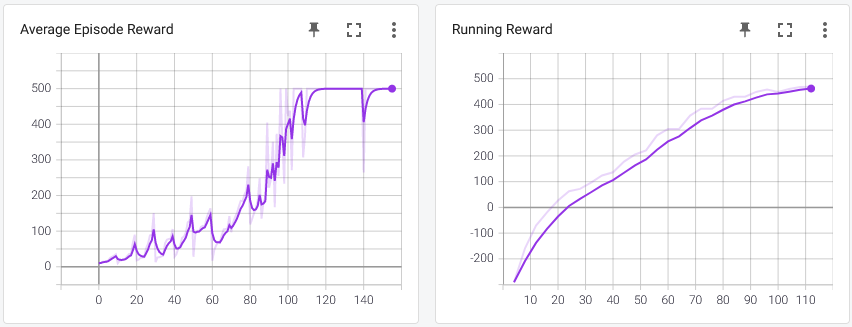
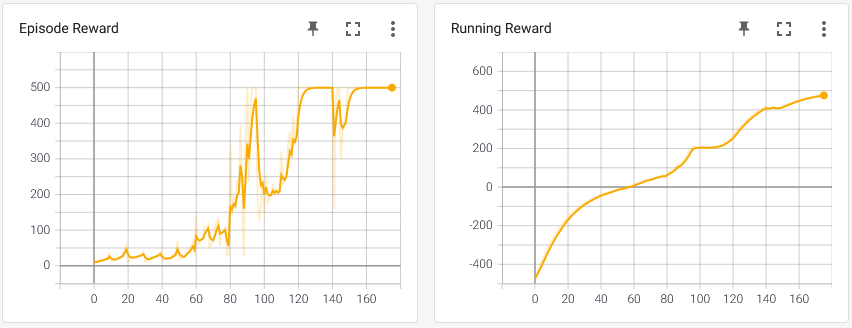
updated

diff --git a/scripts/ppo_chess/chess_env.py b/scripts/ppo_chess/chess_env.py
@@ -419,60 +419,49 @@ class ChessEnv():
   ##############################################################################
   def BoardEncode(self): 
     """Converts a board to numpy array representation (8,8,21) same as Alphazero with history_length = 1 (only one board)"""
-
-    array = np.zeros((8, 8, 14), dtype=int)
-
+    array = np.zeros((8, 8, 26), dtype=int)
     for square, piece in self.board.piece_map().items():
       rank, file = chess.square_rank(square), chess.square_file(square)
       piece_type, color = piece.piece_type, piece.color
-        
       # The first six planes encode the pieces of the active player, 
       # the following six those of the active player's opponent. Since
       # this class always stores boards oriented towards the white player,
       # White is considered to be the active player here.
-      offset = 0 if color == chess.WHITE else 6
-            
+      offset = 0 if color == chess.WHITE else 12
+      offset1 = 6 if color == chess.WHITE else 18        
       # Chess enumerates piece types beginning with one, which we have
       # to account for
       idx = piece_type - 1
-        
+      # We use now a for loop to save the squares attacked by the piece we just found
+      for i in list(self.board.attacks(square)):
+            array[chess.square_rank(i),chess.square_file(i),idx+offset1] = 1
       array[rank, file, idx + offset] = 1
-
       # Repetition counters
-    array[:, :, 12] = self.board.is_repetition(2)
-    array[:, :, 13] = self.board.is_repetition(3)
-
+    array[:, :, 24] = self.board.is_repetition(2)
+    array[:, :, 25] = self.board.is_repetition(3)
     #return array
-
     #def observation(self, board: chess.Board) -> np.array:
     #Converts chess.Board observations instance to numpy arrays.
     #self._history.push(board)
-
     #history = self._history.view(orientation=board.turn)
     history = array
     meta = np.zeros(
     shape=(8 ,8, 7),
     dtype=int
     )
-    
     # Active player color
     meta[:, :, 0] = int(self.board.turn)
-    
     # Total move count
     meta[:, :, 1] = self.board.fullmove_number
-
     # Active player castling rights
     meta[:, :, 2] = self.board.has_kingside_castling_rights(self.board.turn)
     meta[:, :, 3] = self.board.has_queenside_castling_rights(self.board.turn)
-    
     # Opponent player castling rights
     meta[:, :, 4] = self.board.has_kingside_castling_rights(not self.board.turn)
     meta[:, :, 5] = self.board.has_queenside_castling_rights(not self.board.turn)
-
     # No-progress counter
     meta[:, :, 6] = self.board.halfmove_clock
     observation = np.concatenate([history, meta], axis=-1)
-
     return np.transpose(observation, (2, 0, 1))
 
 

diff --git a/scripts/ppo_chess_mpi/chess_env.py b/scripts/ppo_chess_mpi/chess_env.py
@@ -452,18 +452,15 @@ class ChessEnv():
   ##############################################################################
   def BoardEncode(self): 
     """Converts a board to numpy array representation (8,8,21) same as Alphazero with history_length = 1 (only one board)"""
-
     array = np.zeros((8, 8, 26), dtype=int)
-
     for square, piece in self.board.piece_map().items():
       rank, file = chess.square_rank(square), chess.square_file(square)
       piece_type, color = piece.piece_type, piece.color
-        
       # The first six planes encode the pieces of the active player, 
       # the following six those of the active player's opponent. Since
       # this class always stores boards oriented towards the white player,
       # White is considered to be the active player here.
-      offset = 0 if color == chess.WHITE else 6
+      offset = 0 if color == chess.WHITE else 12
       offset1 = 6 if color == chess.WHITE else 18        
       # Chess enumerates piece types beginning with one, which we have
       # to account for
@@ -471,44 +468,33 @@ class ChessEnv():
       # We use now a for loop to save the squares attacked by the piece we just found
       for i in list(self.board.attacks(square)):
             array[chess.square_rank(i),chess.square_file(i),idx+offset1] = 1
-
       array[rank, file, idx + offset] = 1
-
       # Repetition counters
     array[:, :, 24] = self.board.is_repetition(2)
     array[:, :, 25] = self.board.is_repetition(3)
-
     #return array
-
     #def observation(self, board: chess.Board) -> np.array:
     #Converts chess.Board observations instance to numpy arrays.
     #self._history.push(board)
-
     #history = self._history.view(orientation=board.turn)
     history = array
     meta = np.zeros(
     shape=(8 ,8, 7),
     dtype=int
     )
-    
     # Active player color
     meta[:, :, 0] = int(self.board.turn)
-    
     # Total move count
     meta[:, :, 1] = self.board.fullmove_number
-
     # Active player castling rights
     meta[:, :, 2] = self.board.has_kingside_castling_rights(self.board.turn)
     meta[:, :, 3] = self.board.has_queenside_castling_rights(self.board.turn)
-    
     # Opponent player castling rights
     meta[:, :, 4] = self.board.has_kingside_castling_rights(not self.board.turn)
     meta[:, :, 5] = self.board.has_queenside_castling_rights(not self.board.turn)
-
     # No-progress counter
     meta[:, :, 6] = self.board.halfmove_clock
     observation = np.concatenate([history, meta], axis=-1)
-
     return np.transpose(observation, (2, 0, 1))
 
 

diff --git a/scripts/PPO/gif_making.py b/scripts/PPO/gif_making.py
@@ -1,0 +1,80 @@
+from matplotlib import animation
+import matplotlib.pyplot as plt
+from collect_trajectories import get_action
+from network import PolicyNetwork, ValueNetwork
+import torch
+from pathlib import Path
+import gym
+
+device = torch.device("cpu")
+
+trained = False
+
+# env_name = "CartPole-v1"
+# env_name = "LunarLander-v2"
+# env_name = "Acrobot-v1"
+env_name = "MountainCar-v0"
+
+
+env = gym.make(env_name)
+n_actions = env.action_space.n
+feature_dim = env.observation_space.shape[0]
+
+policy_model = PolicyNetwork(in_dim=feature_dim, n=n_actions).to(device)
+value_model = ValueNetwork(in_dim=feature_dim).to(device)
+
+if trained:
+    gif_name = env_name + "-trained.gif"
+
+    if not Path("./models").exists():
+        print("Creating Models folder")
+        Path("./models").mkdir()
+
+    model_path = Path("./models/" + env_name + ".tar")
+    if model_path.exists():
+        print("Loading model!")
+        #Load model
+        checkpoint = torch.load(model_path)
+        policy_model.load_state_dict(checkpoint['policy_model'])
+        value_model.load_state_dict(checkpoint['value_model'])
+else:
+    gif_name = env_name + "-untrained.gif"
+
+def save_frames_as_gif(frames, filename, path='./gifs/'):
+
+    #Mess with this to change frame size
+    plt.figure(figsize=(frames[0].shape[1] / 72.0, frames[0].shape[0] / 72.0), dpi=72)
+
+    patch = plt.imshow(frames[0])
+    plt.axis('off')
+
+    def animate(i):
+        patch.set_data(frames[i])
+
+    anim = animation.FuncAnimation(plt.gcf(), animate, frames = len(frames), interval=40)
+    anim.save(path + filename, writer=animation.PillowWriter(fps=24))
+
+
+def make_gif(env_name, policy_model, value_model, device):
+#Make gym env
+    env = gym.make(env_name)
+    reward = 0
+    #Run the env
+    observation = env.reset()
+    frames = []
+    for t in range(1000):
+        #Render to frames buffer
+        frames.append(env.render(mode="rgb_array"))
+
+        action, log_probability, value = get_action(observation, policy_model, value_model, device)
+
+        observation, _reward, done, _ = env.step(action)
+        reward += _reward
+        if done:
+            print(reward)
+            break
+    env.close()
+    
+    save_frames_as_gif(frames, gif_name)
+
+make_gif(env_name, policy_model, value_model, device)

diff --git a/scripts/PPO/ppo.py b/scripts/PPO/ppo.py
@@ -10,8 +10,6 @@ import gym
 import numpy as np
 from tqdm import tqdm
 from pathlib import Path
-from matplotlib import animation
-import matplotlib.pyplot as plt
 
 import time
 
@@ -23,43 +21,6 @@ from collect_trajectories import collect, get_action
 
 device = torch.device("cpu")
 
-
-def save_frames_as_gif(frames, path='./gifs/', filename='gym_animation.gif'):
-
-    #Mess with this to change frame size
-    plt.figure(figsize=(frames[0].shape[1] / 72.0, frames[0].shape[0] / 72.0), dpi=72)
-
-    patch = plt.imshow(frames[0])
-    plt.axis('off')
-
-    def animate(i):
-        patch.set_data(frames[i])
-
-    anim = animation.FuncAnimation(plt.gcf(), animate, frames = len(frames), interval=40)
-    anim.save(path + filename, writer=animation.PillowWriter(fps=24))
-
-
-def make_gif(env_name, policy_model, value_model, device):
-#Make gym env
-    env = gym.make(env_name)
-    reward = 0
-    #Run the env
-    observation = env.reset()
-    frames = []
-    for t in range(1000):
-        #Render to frames buffer
-        frames.append(env.render(mode="rgb_array"))
-
-        action, log_probability, value = get_action(observation, policy_model, value_model, device)
-
-        observation, _reward, done, _ = env.step(action)
-        reward += _reward
-        if done:
-            print(reward)
-            break
-    env.close()
-    
-    save_frames_as_gif(frames)
 
 
 def train_network(data_loader, policy_model, value_model, policy_optimizer, value_optimizer ,n_epoch, clip, train_ite, writer, entropy_coefficient):
@@ -237,7 +198,6 @@ def main():
             print("\nSolved!")
             break
 
-    # make_gif(env_name, policy_model, value_model, device)
 
 if __name__ == '__main__':
     main()
